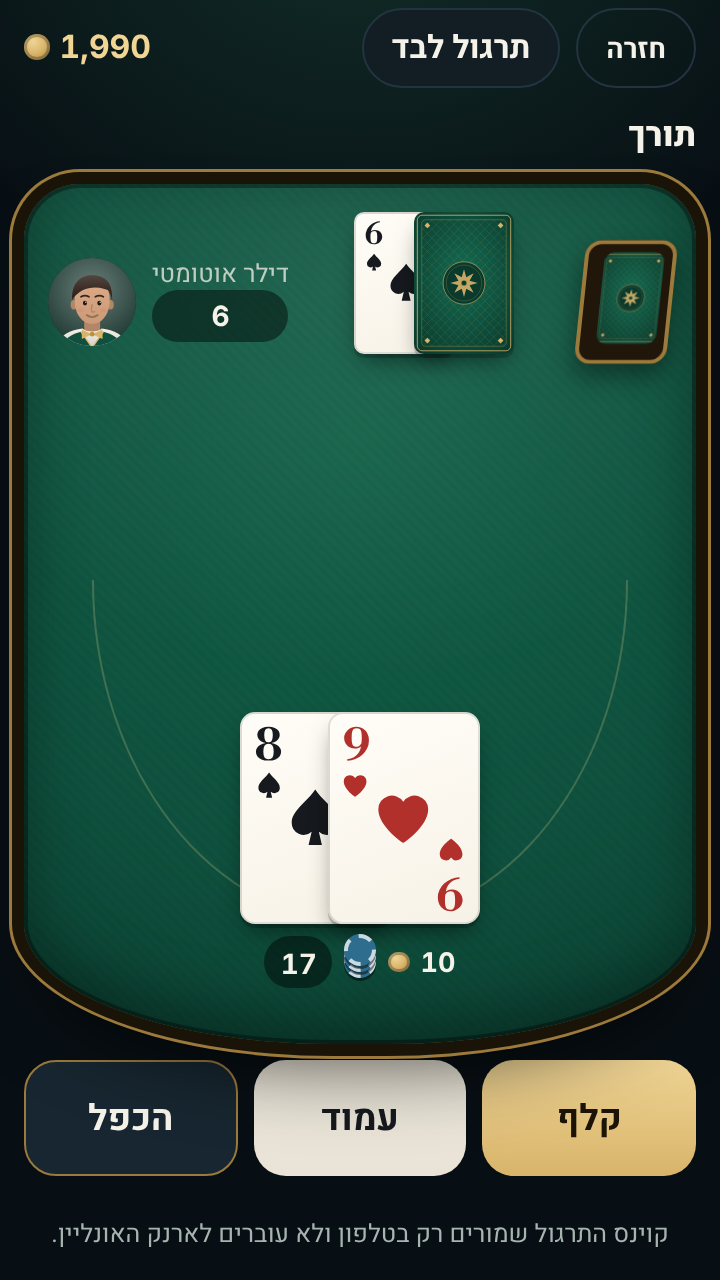
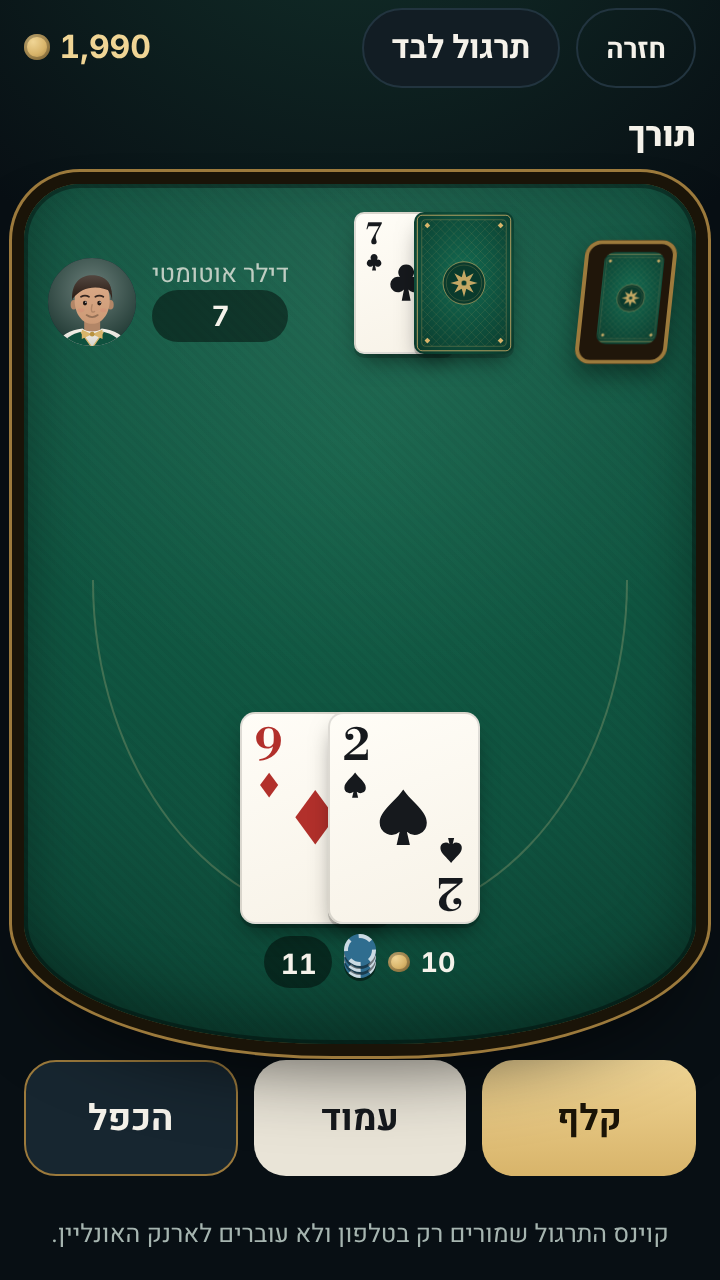
Fix local mode remount, desktop table height; test report, screenshots, next steps
Claude-Session: https://claude.ai/code/session_01AvuRKGqViCsLHEkkmHcGex

diff --git a/apps/web/src/styles.css b/apps/web/src/styles.css
@@ -383,7 +383,8 @@ input:focus, select:focus { border-color: var(--gold); outline: none; }
   .shell:not(.with-nav) .screen { max-width: 1180px; }
   .room { max-width: 1180px; display: grid; grid-template-columns: 1fr 360px; grid-template-rows: auto auto auto 1fr auto; column-gap: 18px; }
   .room > .room-head, .room > .status-line, .room > .banners { grid-column: 1 / -1; }
-  .room > .felt { grid-column: 1; grid-row: 4 / span 2; min-height: 560px; }
+  .room > .felt { grid-column: 1; grid-row: 4 / span 2; min-height: 520px; height: calc(100dvh - 130px); }
+  .room > .controls { align-self: end; }
   .room > .controls, .room > .reactions, .room > .match-panel, .room > .fine { grid-column: 2; }
   .card-lg { --w: 92px; }
 }

diff --git a/apps/web/src/App.tsx b/apps/web/src/App.tsx
@@ -67,7 +67,7 @@ export function App() {
   let content: ReactNode;
   let nav = true;
   if (head === 'practice' || head === 'pass') {
-    content = <LocalPlay mode={head === 'practice' ? 'solo' : 'pass'} />;
+    content = <LocalPlay key={head} mode={head === 'practice' ? 'solo' : 'pass'} />;
     nav = false;
   } else if (head === 'settings' || head === 'help') content = <Settings />;
   else if (head === 'lan') content = <Lan />;

diff --git a/docs/TEST_REPORT.md b/docs/TEST_REPORT.md
@@ -1,0 +1,97 @@
+# Test report
+
+Run date: 1 November 2026, in Claude's cloud workspace (Ubuntu 24.04, Node 22.23, PostgreSQL 16.15,
+Playwright 1.63 with Chromium 153). All counts below are from actual runs; nothing is estimated.
+
+| Suite | Command | Result |
+|---|---|---|
+| Unit (engine rules, payouts, property tests) | `pnpm test:unit` | PASS 24/24 |
+| Integration (real PostgreSQL: wallet, rooms, recovery) | `pnpm test:integration` | PASS 13/13 |
+| E2E (Chromium, separate browser contexts) | `pnpm test:e2e` | PASS 6/6 (after fixes below) |
+| Typecheck (4 packages) | `pnpm typecheck` | PASS |
+
+## Engine (tests/unit/engine.test.ts)
+Six-deck shoe with 312 unique physical ids and no jokers, unbiased crypto RNG range, Fisher-Yates
+permutation property, multiple aces and soft/hard totals, 3:2 natural (100 -> 250 gross), push/win/lose
+gross returns, both naturals push, dealer natural at the peek (ace and ten upcards), hole card stays
+hidden after a negative peek, natural beats a dealer multi-card 21, multi-card 21 pays 1:1, dealer stands
+on soft 17, dealer hits 16 and busts while a busted player still loses, equal totals push, double
+(one card, stands, needs funds, not after a hit), split identical ranks only (K+K yes, K+Q no) and only
+when funded, double after split, stable split order, resplit up to four hands, split aces one card each
+paying 1:1, timeout stand, presenter dealer mandatory step order, shoe exhaustion voids the round
+(at deal and mid-hand), odd-unit stake rejection, and 300 random multi-seat rounds with no duplicate
+physical card and bounded returns.
+
+## Money and realtime (tests/integration/rooms.test.ts, PostgreSQL)
+Three players with exact payouts and ledger consistency; wrong player and stale version rejected;
+duplicate command id applied once (concurrent); five concurrent bets keep `available + reserved`
+constant; invalid stake; one wagering seat per player across rooms (cross-room double spend);
+insufficient funds for bet and double; redaction (no hole card, shoe or uid in snapshots); turn
+timeout auto-stand; leaving mid-round keeps the stake and pays the result; process crash after commit
+before emit, then restart recovery resumes the identical hand and settles exactly once; stale timer
+tick cannot settle twice; shoe exhaustion voids and refunds every stake exactly once and reshuffles;
+presenter dealer cannot sit or peek, only the presenter triggers steps, automatic dealer takes over on
+disconnect with the same draws, presenter coins never at risk; equal-stack match (locked betting before
+start, late joiner locked out, separate stacks, finishes after N rounds, casual wallet untouched);
+reconnect window releases a seat only after the grace period; daily grant once per Jerusalem day
+under concurrency; rescue only below the minimum stake and once per 6 hours under concurrency; weekly
+group ranking equals settled casual hand net only, enforces minimum hands and membership.
+Every money test ends with `assertLedgerConsistent`: each wallet equals the sum of its ledger rows
+and never goes negative.
+
+## Browser (tests/e2e, Chromium device emulation, NOT real phones)
+1. Three isolated browser contexts (three server identities): create room, join by code, sit, bet,
+   play real turns (hit and stand), automatic dealer, settlement. All three received the same dealer
+   cards; each `/api/me` balance equals 2,000 - stakes + gross returns from the round; reserved is 0.
+   Every socket frame was inspected: no `shoe`, no `uid`, hole card has no rank/suit while hidden.
+2. Network drop (context offline) and page refresh mid-hand: reconnecting banner, other player sees
+   the seat as offline, reconnect returns to the same round id and the hand finishes.
+3. Friend as presenter dealer: cannot sit, never receives the hole card, triggers reveal, then
+   disconnects; the automatic dealer finishes the round and stakes are settled.
+4. Offline: built app with an activated service worker; network off; solo practice round and
+   pass-and-play round (with the "pass the phone" handoff) both complete; zero requests to any
+   external origin during the whole test.
+5. Layouts: 360x640, 430x932, 820x1180, 1280x800 and 844x390 landscape, Hebrew RTL and English LTR,
+   20-character name: no horizontal overflow on home, profile, leaderboard, settings, friends and the
+   table; action buttons are at least 48px tall.
+6. Reduced motion (system preference) and keyboard play (Enter on chips, `s` to stand).
+
+Screenshots from these runs are in `docs/screenshots/`.
+
+## Bugs found by the tests and fixed
+- Early auto-deal fired as soon as the first seated player bet while friends were still joining.
+  Now the early deal waits while any connected member is only watching.
+- The global rate limit counted static files, so several browsers (or friends behind one home IP)
+  were blocked with HTTP 429. Limits now apply to `/api/*` only and are keyed per session.
+- Navigating from solo practice to pass-and-play reused the solo game. Fixed by remounting per mode.
+- `@fastify/static` header setter API change caused HTTP 500 on static files. Fixed.
+- Reserved SQL keyword `natural` as a column name. Renamed to `is_natural`.
+
+## Measurements (headless Chromium in the cloud workspace, not a phone)
+- Frame pacing during a deal animation: 120 frames, average 58.5 fps, p95 frame 16.8 ms, worst 33.4 ms.
+- Command round trip on localhost: sit -> stake picker visible 78 ms; bet click -> confirmed 82 ms.
+These are indicative only. Real-phone performance is NOT measured.
+
+## Not run (needs Oz's devices or network)
+| Check | Status |
+|---|---|
+| Real iPhone Safari and installed PWA (home screen, offline) | NOT_RUN |
+| Real Android Chrome and installed PWA | NOT_RUN |
+| WebKit automation | NOT_RUN (WebKit is not installed in this workspace) |
+| Computer-hosted LAN with phones on real Wi-Fi | NOT_RUN |
+| LAN with WAN disconnected (router internet unplugged) | NOT_RUN |
+| HTTPS LAN with mkcert root CA on phones | NOT_RUN |
+| Phone-only LAN (no computer) | NOT_IMPLEMENTED (research only, docs/PHONE_LAN_RESEARCH.md) |
+| Native iOS/Android builds | NOT_IMPLEMENTED |
+| Rewarded ads | DISABLED (not configured, by design) |
+| Public deployment | NOT_DEPLOYED |
+
+## Manual phone checklist for Oz
+1. Run the LAN host on the computer (`scripts/start-lan-windows.ps1` or `pnpm lan`), open the printed
+   address on two or three phones on the same Wi-Fi.
+2. Each phone: choose a name and character. One creates a room and shares the code; the others join.
+3. Sit, bet, play a few rounds; check that balances on each phone match the result panel.
+4. Lock one phone for 20 seconds mid-hand, unlock: it should return to the same hand.
+5. Try the friend-dealer mode and a friends night.
+6. Unplug the router's internet (keep Wi-Fi on) and play another round.
+7. Note anything that looks wrong on iPhone (safe areas, fonts, sounds, haptics) and send screenshots.

diff --git a/docs/NEXT_STEPS.md b/docs/NEXT_STEPS.md
@@ -1,18 +1,32 @@
 # Next steps (living checkpoint log)
 
-## Completed
-- M1: game engine (packages/game-engine), 24 unit tests passing.
-- M2: authoritative server (apps/server) on PostgreSQL 16: ledger, idempotent commands, rooms, auto and
-  presenter dealer, timeouts, settlement, voids, matches, grants, groups, leaderboards, restart recovery.
-  13 integration tests passing.
-- M3 (in progress): web client (apps/web) builds and runs: onboarding, home, online room, solo practice,
-  pass-and-play, friends/groups, leaderboard, profile, rewards, settings/help, LAN page. Original SVG art,
-  Higgsfield request manifest, docs set, LAN and dev scripts.
+## Source of truth and sync
+- GitHub `ozmoseri/table21` (private), branch `main`, is the source of truth.
+- Active development happens in Claude's cloud workspace (it has PostgreSQL and Playwright) and is pushed.
+- Oz's computer copy lives at `C:\Users\user\table21` and is only updated with `git pull`. Do not edit it.
 
-## Not yet verified
-- tests/e2e (Playwright, 3 browser contexts) written; first full run was interrupted. Rerun:
-  `node scripts/db.mjs start && pnpm test:e2e`.
-- Offline (service worker) e2e and viewport sweep not written yet.
+## Completed
+- M1: game engine with 24 unit tests.
+- M2: authoritative server on PostgreSQL with 13 integration tests.
+- M3: web client (all screens, original SVG art, motion, sound, PWA service worker), 6 Chromium e2e tests,
+  LAN host script (`pnpm lan`, `scripts/start-lan-windows.ps1`), docs set, asset request manifest.
+  See docs/TEST_REPORT.md.
+
+## Commands
+```bash
+pnpm install
+node scripts/db.mjs start          # local PostgreSQL for tests/dev
+pnpm test:unit && pnpm test:integration && pnpm test:e2e
+pnpm build && pnpm start           # http://127.0.0.1:3021
+pnpm lan                           # phones on the same Wi-Fi
+```
+
+## Open items
+1. Physical device checks (docs/TEST_REPORT.md, "Not run").
+2. Choose an online host for friends on different networks (docs/DEPLOYMENT.md). Needs Oz's approval.
+3. Optional: labeled practice bots; account linking for cross-device recovery; free-text chat.
+4. Phone-only LAN: native spike per docs/PHONE_LAN_RESEARCH.md (needs Mac + Xcode + devices).
+5. Manual Higgsfield assets per assets/higgsfield-requests.json (budget 0 via MCP).
 
 ## Next small step
-Run the e2e suite, fix failures, add offline + viewport checks, write docs/TEST_REPORT.md.
+Oz runs the LAN host on Windows and plays one round with two phones; fix whatever the phones reveal.
